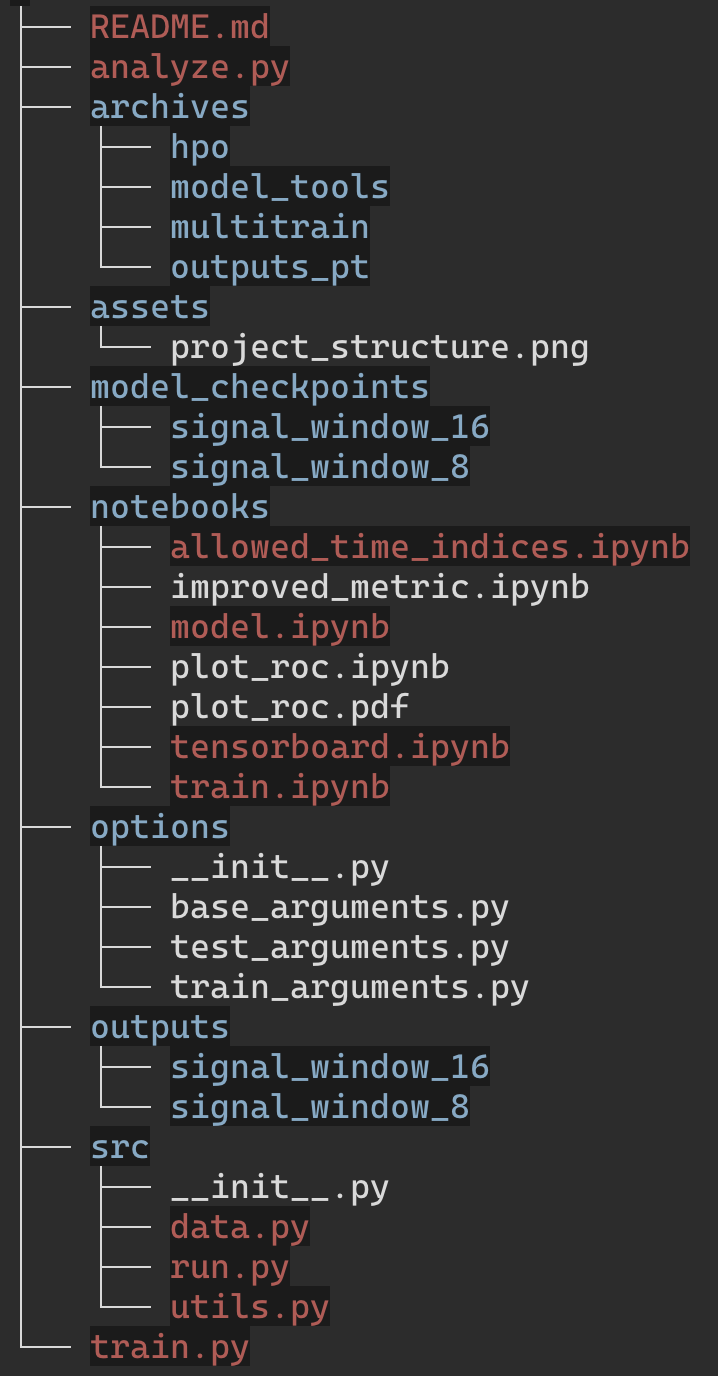
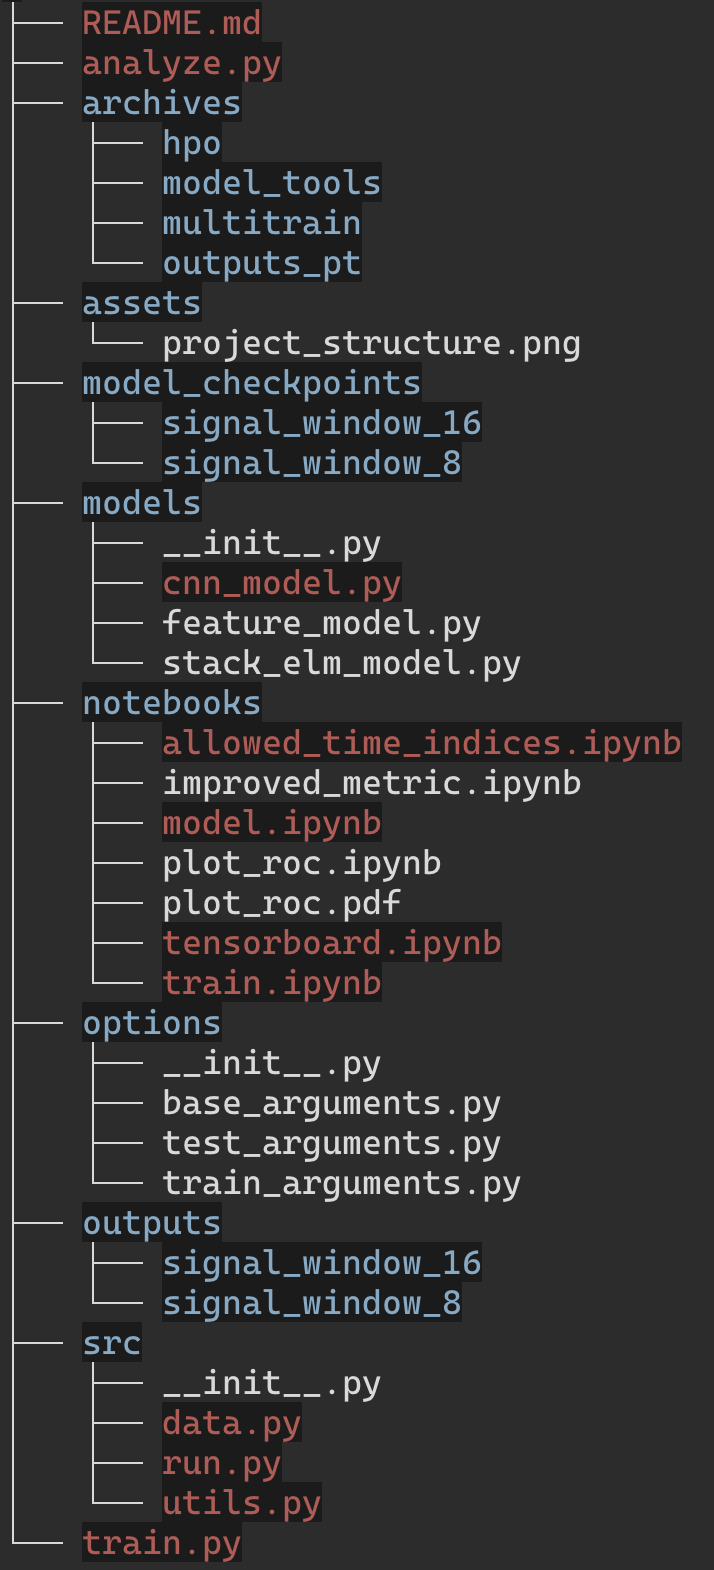
Add correct project structure in README with models dir.

diff --git a/README.md b/README.md
@@ -5,7 +5,7 @@ The whole project can be structured as follows:
 <p align='center'>
     <img src='assets/project_structure.png' alt='project_structure' width='300'/>
 </p>
-
+The code consists of the PyTorch implementations for various models which are located inside the `models/`
 `archives/model_tools/` is a Python module and the primary set of tools for training ML models.
 
 - `model_tools/data.py` - Prepare BES data for training runs.  The module looks for BES data in `data/` (ignored
